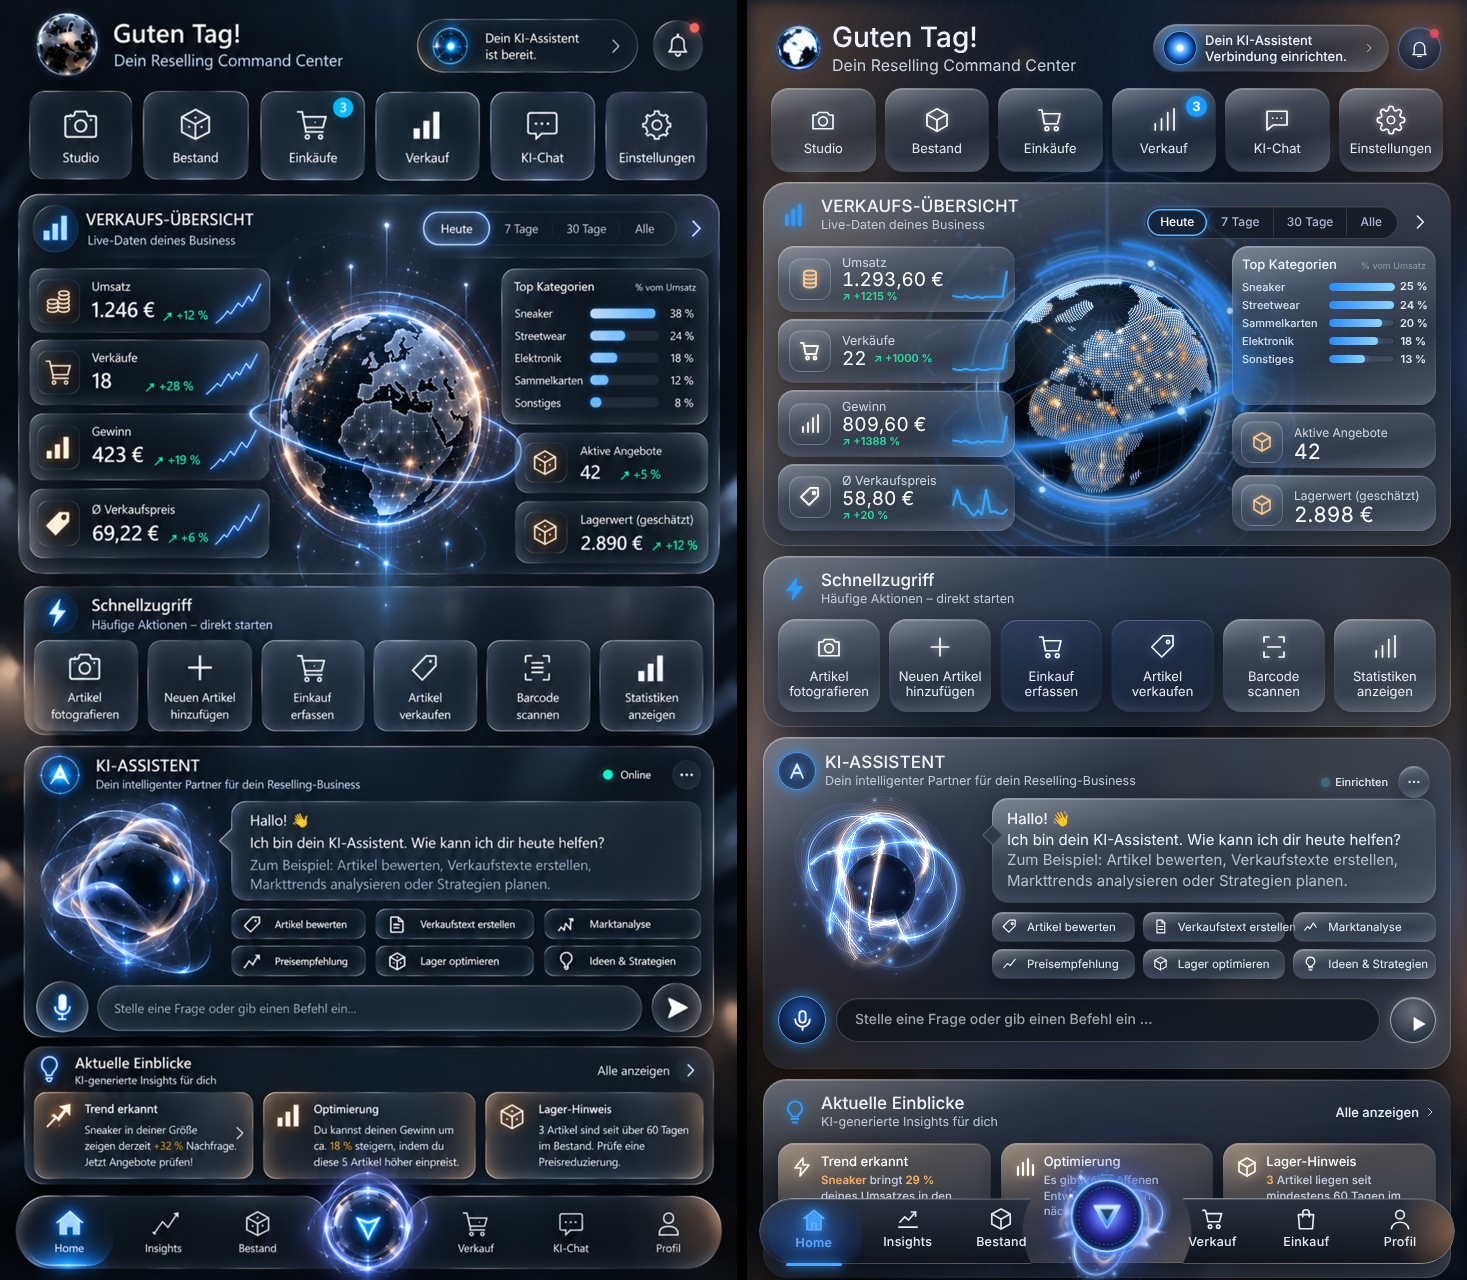
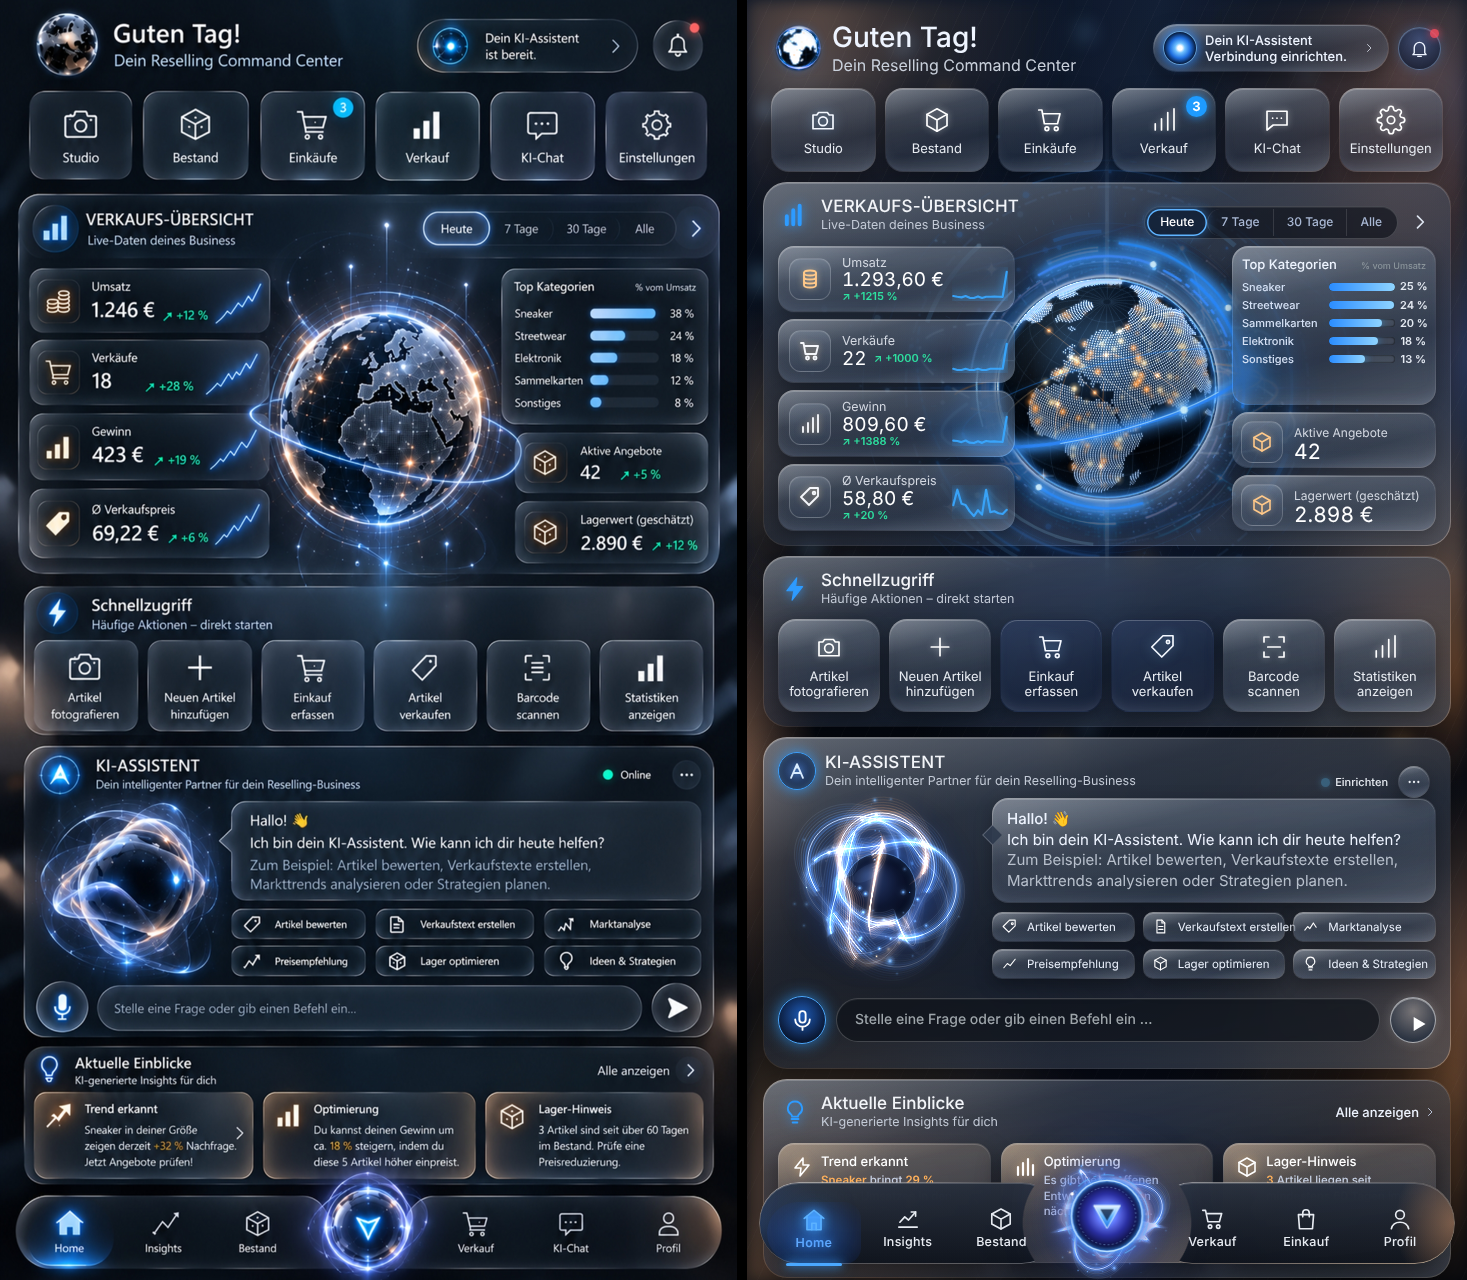
Menümitte: Plasma-Ring mittig in der Leiste
Claude-Session: https://claude.ai/code/session_0194bcZ5PbUBuV3hzmwdGD96

diff --git a/public/theme.css b/public/theme.css
@@ -618,3 +618,5 @@ body:has(#home:not(.hidden)) main.wrap { padding-bottom:120px !important; }
 .lux-bottomnav .orb svg.cc-navorb { width:96px !important; height:96px !important; }
 .lux-bottomnav .orb::before { display:none !important; }
 .lux-bottomnav .orb { margin-top:-30px !important; }
+.lux-bottomnav .orb { align-self:center !important; margin-top:-14px !important; min-height:0 !important; height:96px; display:grid !important; place-items:center !important; }
+.lux-bottomnav .orb .cc-nav-plasma { transform:translate(-50%,-50%) !important; }
